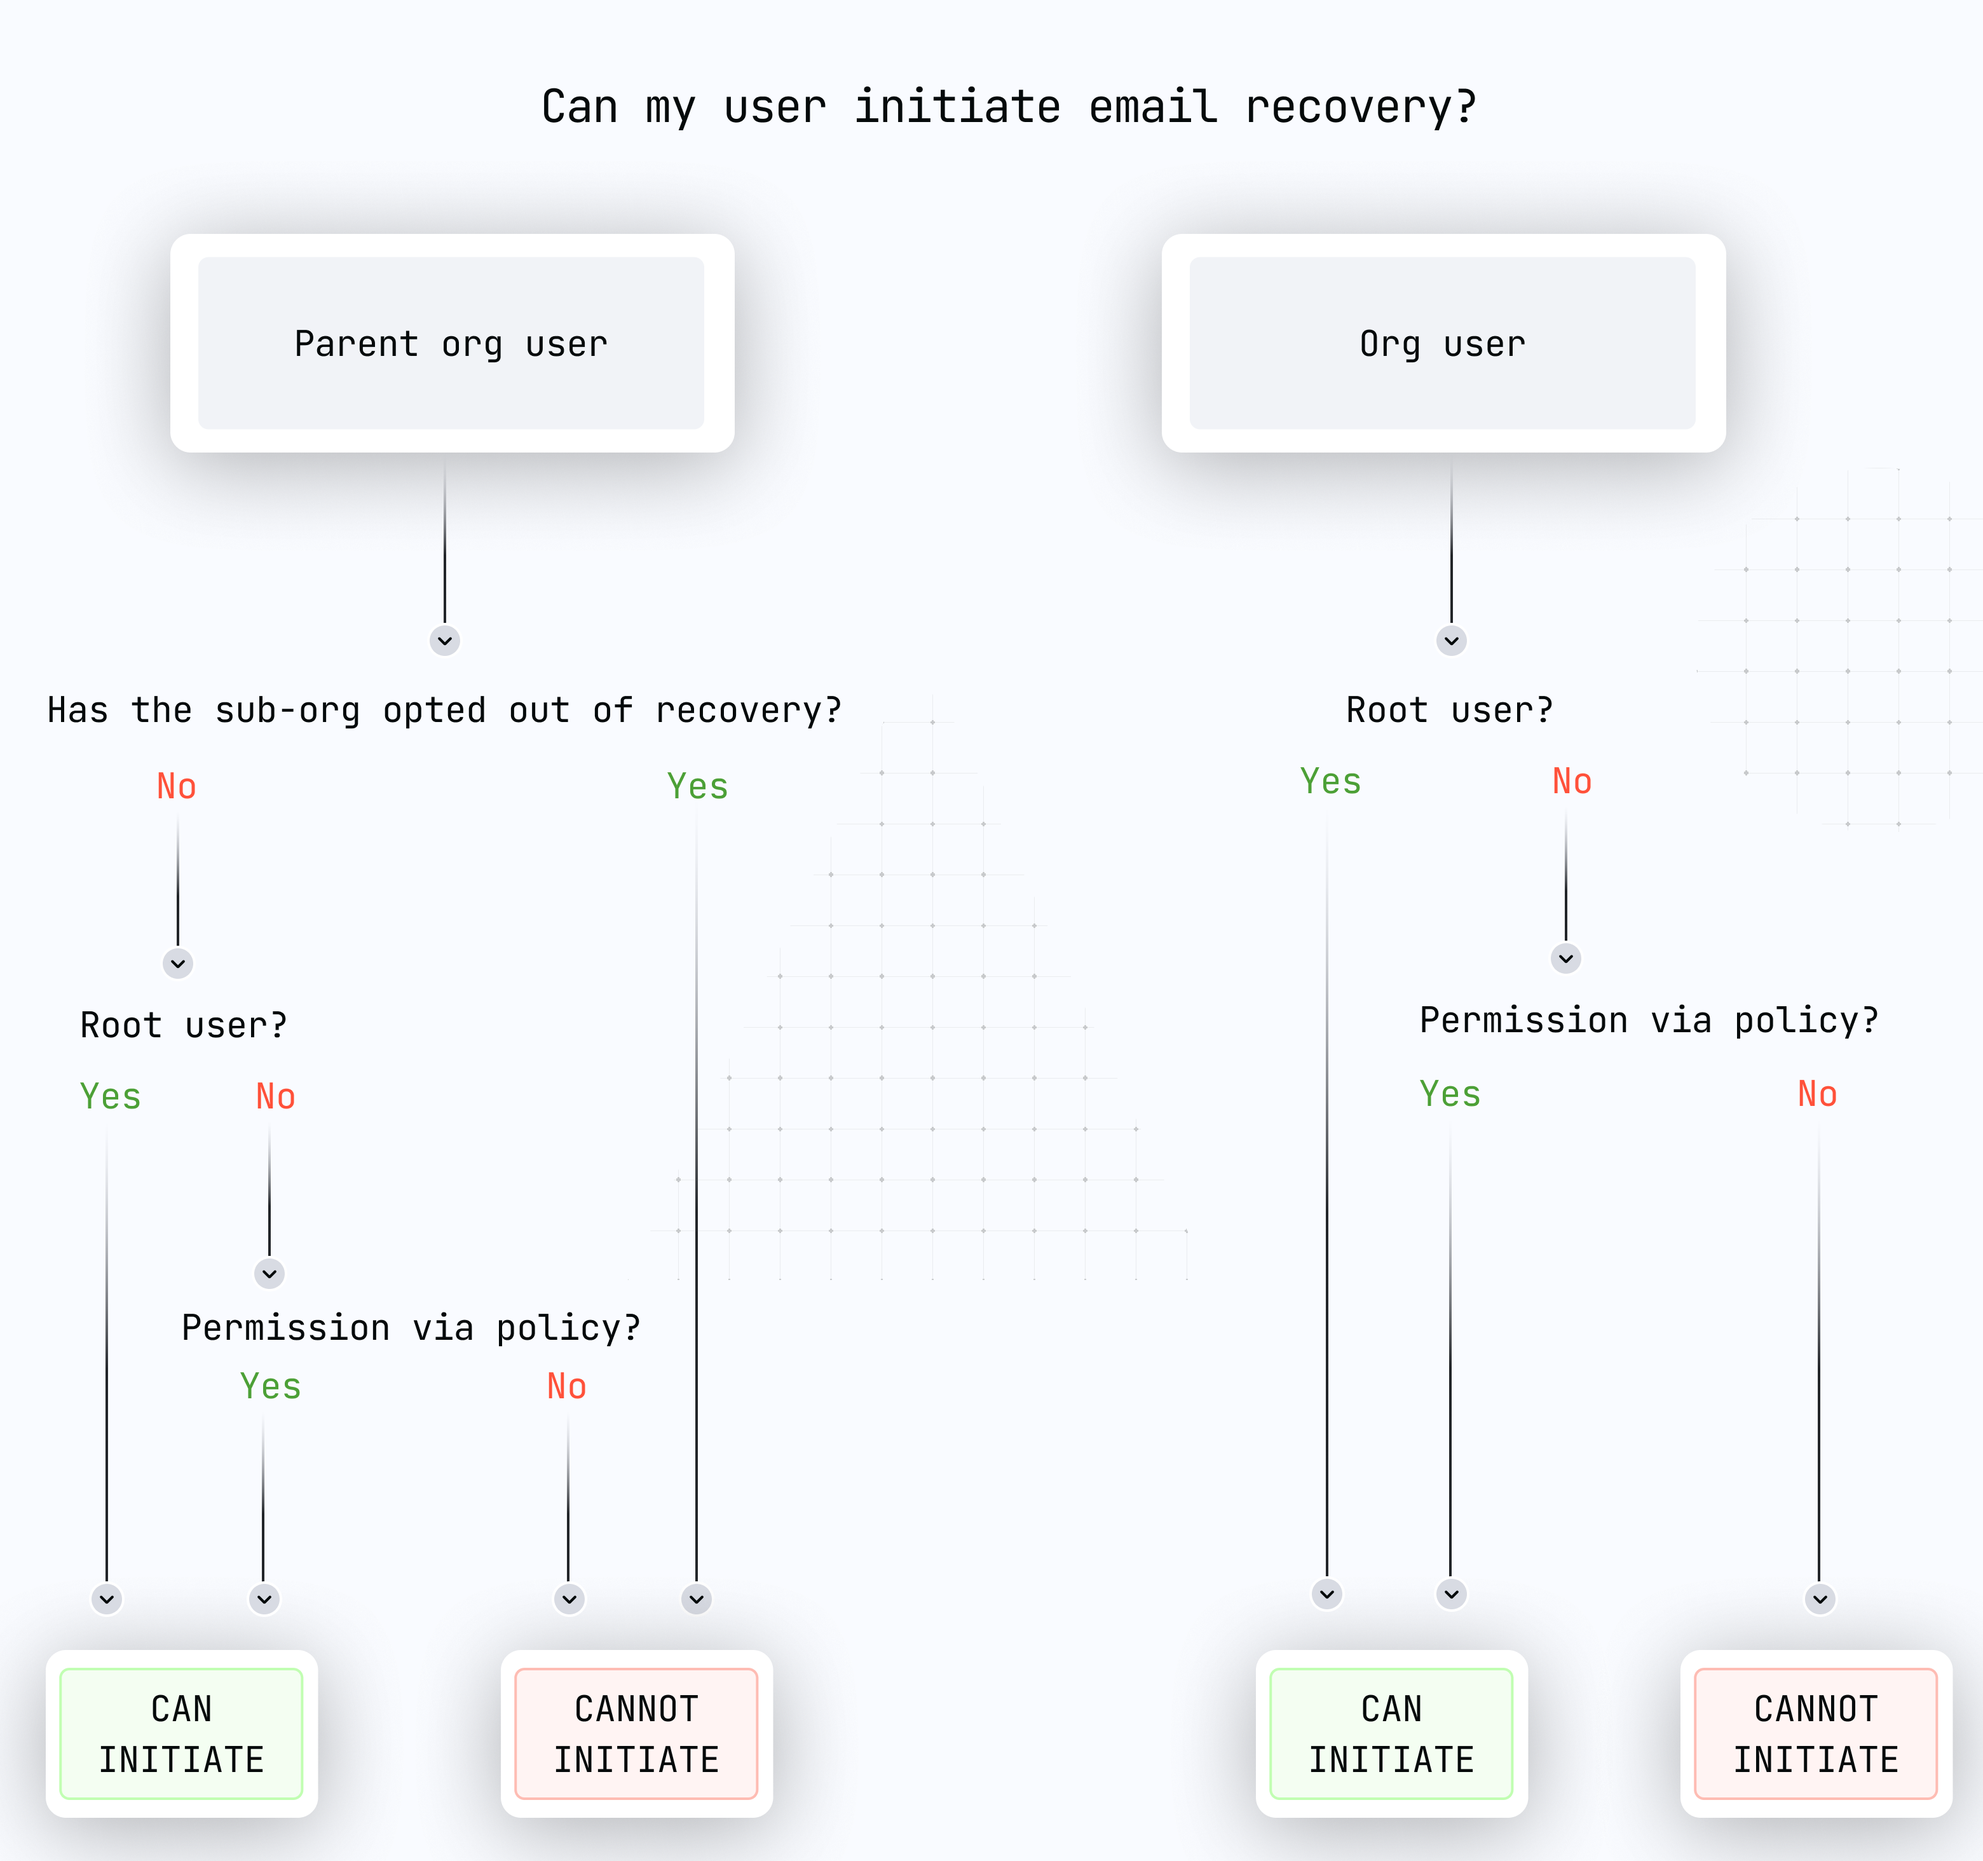
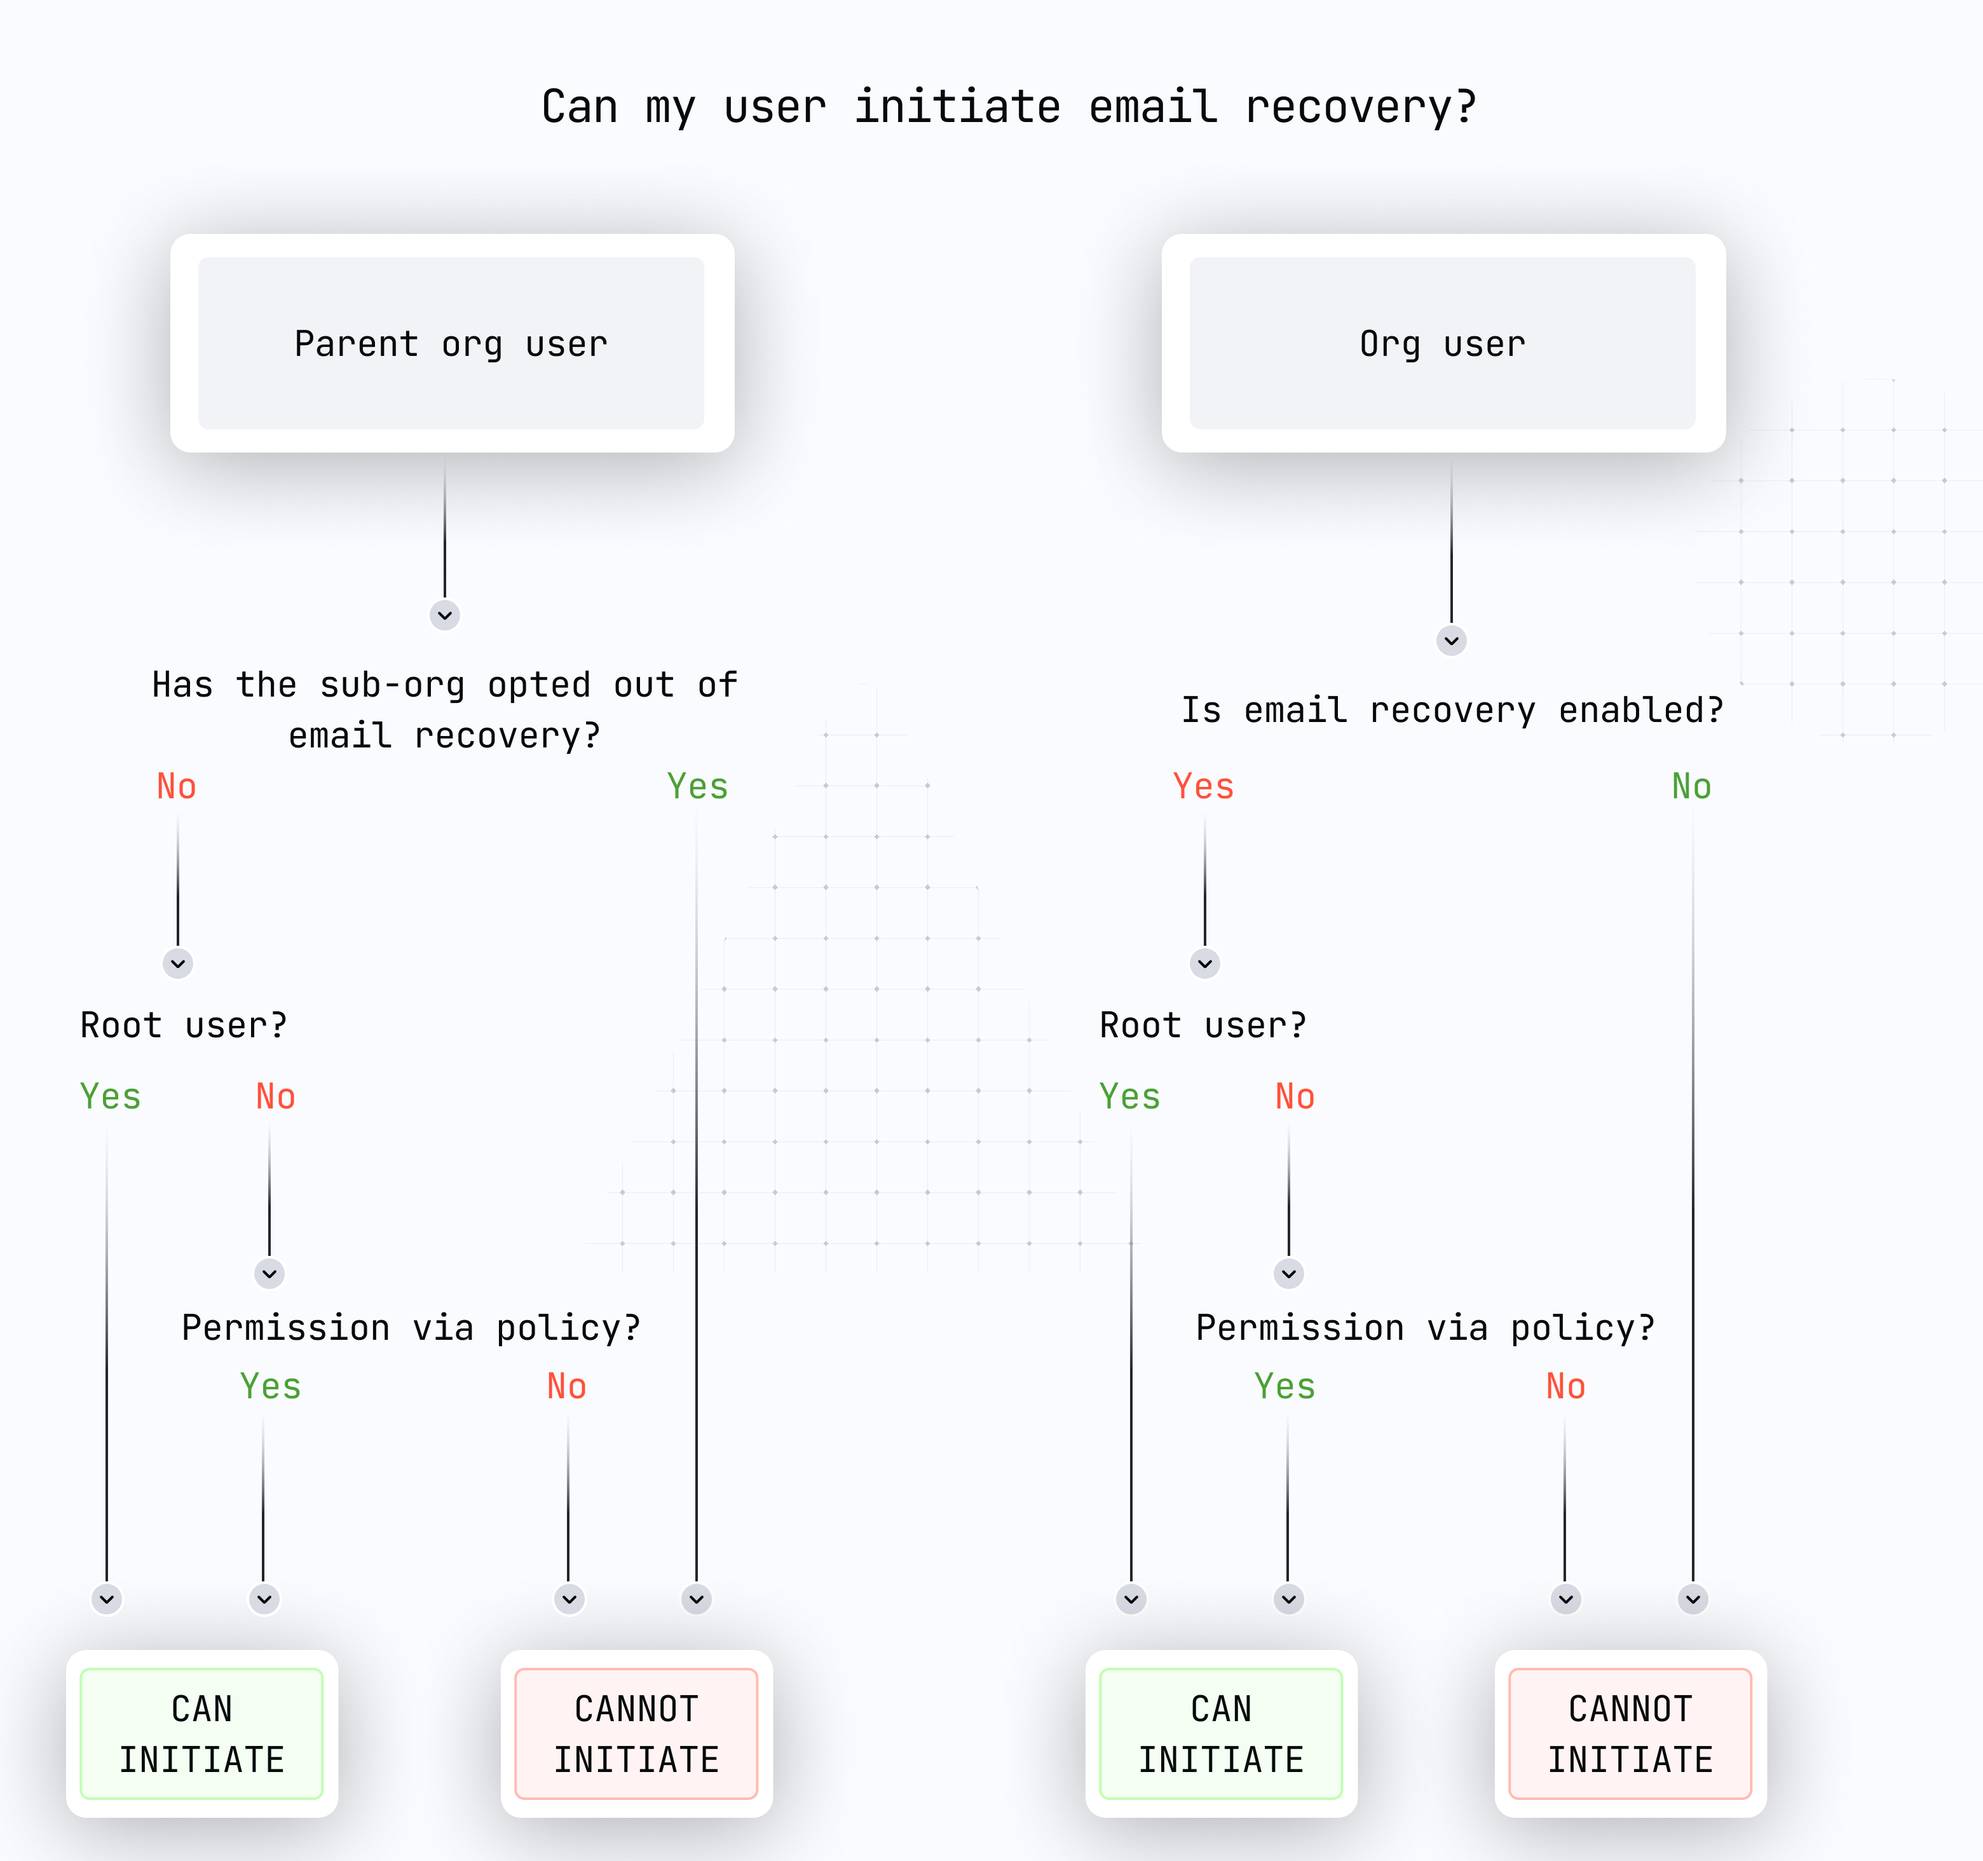
update email auth and recovery

diff --git a/docs/getting-started/email-recovery.md b/docs/getting-started/email-recovery.md
@@ -35,7 +35,7 @@ Once a user receives a recovery email, recovery credential _decryption_ needs to
 ## Authorization
 
 Authorization for email recovery is based on our usual activity authorization: our [policy engine](../policy-management/Policy-overview.md) controls who can and cannot execute recovery-related activities. 
-* `ACTIVITY_TYPE_INIT_USER_EMAIL_RECOVERY` can be performed by the root user or by any user in an organization if authorized by policy. The activity can target **any user** in this organization **or any sub-organization user**. The activity will fail if a parent user tries to initiate recovery for a sub-organization which has [opted out of email recovery](#opting-out-of-email-recovery).
+* `ACTIVITY_TYPE_INIT_USER_EMAIL_RECOVERY` can be performed by the root user or by any user in an organization if authorized by policy, but **only if the feature is enabled**. The activity can target **any user** in this organization **or any sub-organization user**. The activity will fail if a parent user tries to initiate recovery for a sub-organization which has [opted out of email recovery](#opting-out-of-email-recovery).
 * `ACTIVITY_TYPE_RECOVER_USER` should be signed by the recovery credential sent via email. Even if not explicitly allowed by policy, a user is always able to add credentials to their own user. This includes adding a new authenticator when authenticated with a recovery credential. In other words, no special policy is needed to make this work: users are able to recover out-of-the-box.
 
 <p style={{textAlign: 'center'}}>
@@ -65,7 +65,7 @@ If you're a root user and you have lost access to your authenticators, **Turnkey
 
 ## Opting out of email recovery
 
-Depending on your threat model it may be unacceptable to rely on email as an authentication factor. We envision this to be the case when an organization has a mature set of root users with multiple authenticators, or when a sub-organization "graduates" from one to many redundant passkeys or API keys. When you're ready, you can disable email recovery with `ACTIVITY_TYPE_REMOVE_ORGANIZATION_FEATURE` (see Remove [Organization Feature](/api#tag/Features/operation/RemoveOrganizationFeature)). The feature name to remove is `FEATURE_NAME_ROOT_USER_EMAIL_RECOVERY`.
+Depending on your threat model it may be unacceptable to rely on email as an authentication factor. We envision this to be the case when an organization has a mature set of root users with multiple authenticators, or when a sub-organization "graduates" from one to many redundant passkeys or API keys. When you're ready, you can disable email recovery with `ACTIVITY_TYPE_REMOVE_ORGANIZATION_FEATURE` (see Remove [Organization Feature](/api#tag/Features/operation/RemoveOrganizationFeature)). The feature name to remove is `FEATURE_NAME_EMAIL_RECOVERY`.
 
 If you _never_ want to have email recovery enabled, our `CREATE_SUB_ORGANIZATION` activity takes a `disableEmailRecovery` boolean in its parameters. Set it to `true` and the sub-organization will be created without the organization feature.
 

diff --git a/docs/getting-started/email-auth.md b/docs/getting-started/email-auth.md
@@ -85,7 +85,7 @@ Users currently have a limit of 10 long-lived API keys, and 10 expiring API keys
 NOTE: feature must be enabled. For top-level orgs, by default, Email Auth is not enabled. It must be enabled via the `ACTIVITY_TYPE_SET_ORGANIZATION_FEATURE` activity. Here's an example, using our CLI:
 
 ```
-turnkey request --host api.turnkey.com --path /public/v1/submit/email_auth --body '{
+turnkey request --host api.turnkey.com --path /public/v1/submit/set_organization_feature --body '{
         "timestampMs": "'"$(date +%s)"'000",
         "type": "ACTIVITY_TYPE_SET_ORGANIZATION_FEATURE",
         "organizationId": "<YOUR-ORG-ID>",
